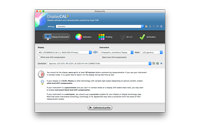
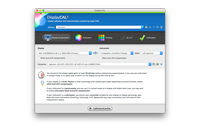
Update theme & screenshots

diff --git a/DisplayCAL/DisplayCAL.py b/DisplayCAL/DisplayCAL.py
@@ -731,7 +731,7 @@ def get_header(parent, bitmap=None, label=None, size=(-1, 64), x=80, y=44,
 	header.label_y = y
 	header.scalebitmap = (False, ) * 2
 	header.textshadow = False
-	header.SetBackgroundColour("#003399")
+	header.SetBackgroundColour("#0e59a9")
 	header.SetForegroundColour("#FFFFFF")
 	header.SetMaxFontSize(11)
 	label = label or lang.getstr("header")
@@ -1511,7 +1511,7 @@ class MainFrame(ReportFrame, BaseFrame):
 		if scale > 1:
 			y, w, h = [int(math.floor(v * scale)) for v in (y, w, h)]
 		self.header_btm = BitmapBackgroundPanel(self.headerpanel, size=(w, -1))
-		self.header_btm.BackgroundColour = "#003399"
+		self.header_btm.BackgroundColour = "#0e59a9"
 		self.header_btm.scalebitmap = False, False
 		header_bmp = getbitmap("theme/header", False)
 		if header_bmp.Size[0] >= w and header_bmp.Size[1] >= h + y:
